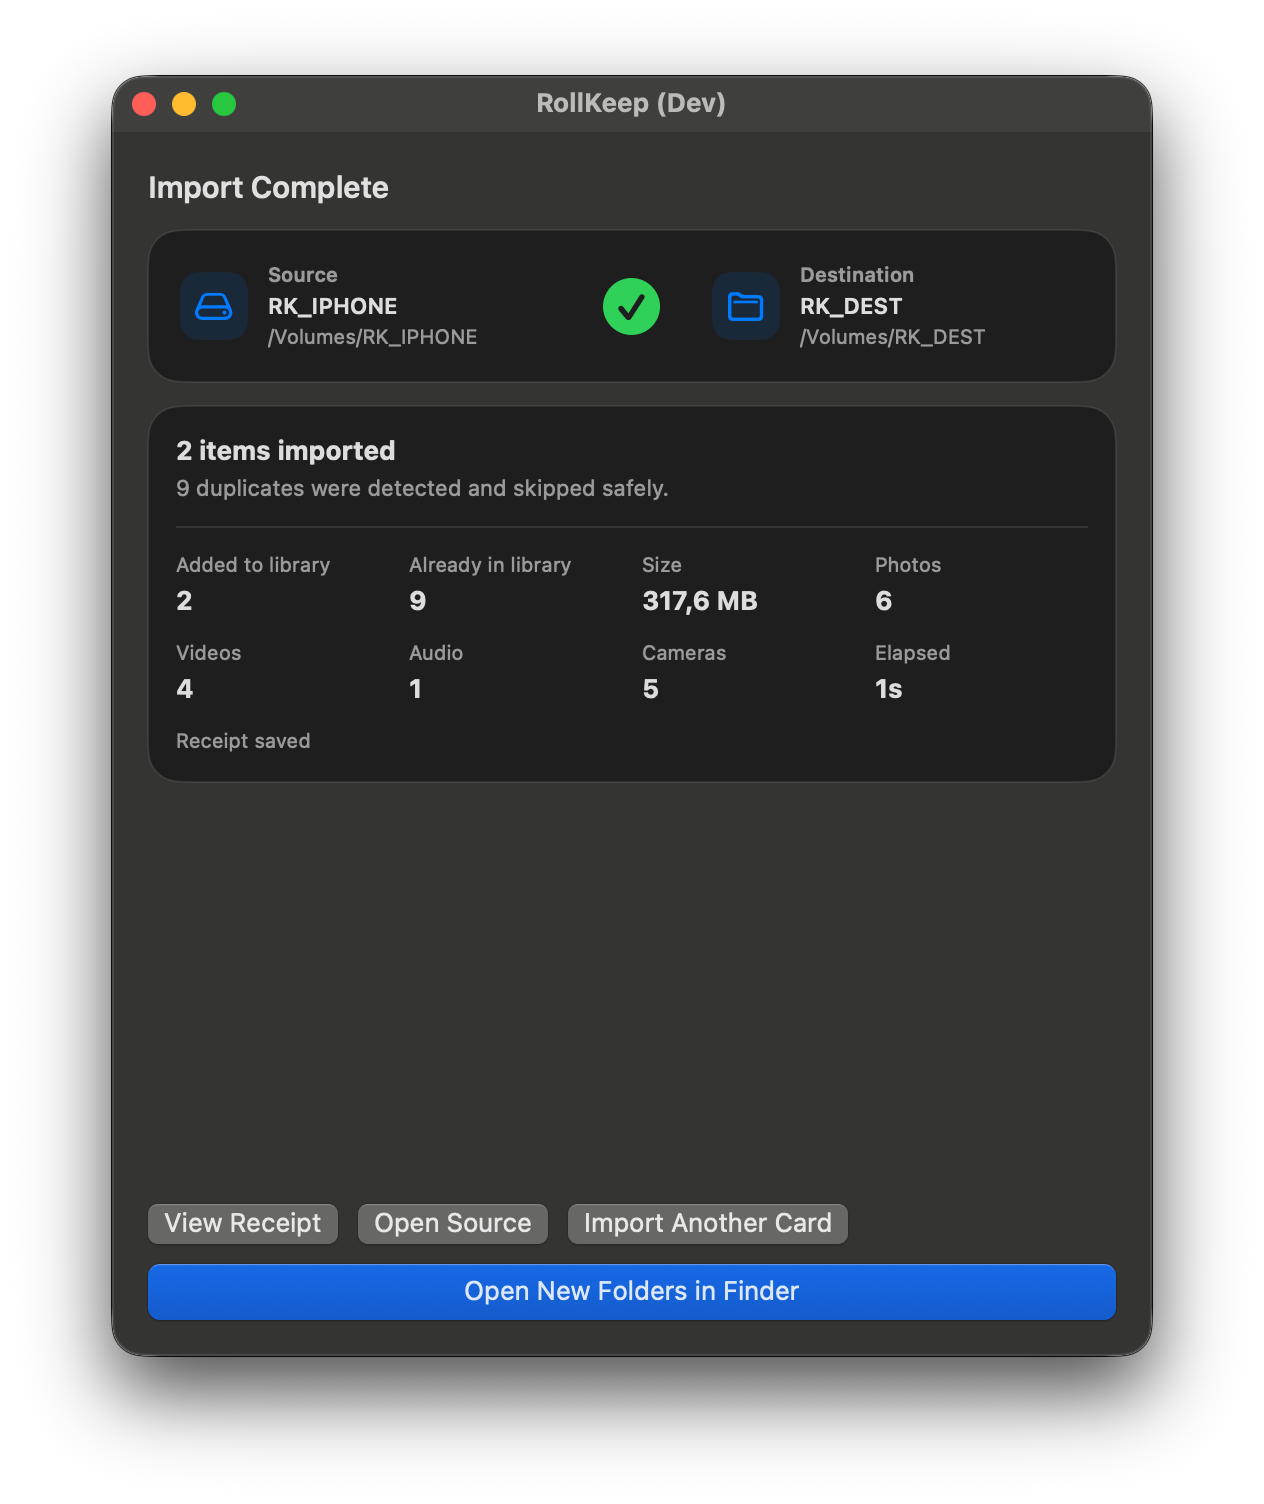
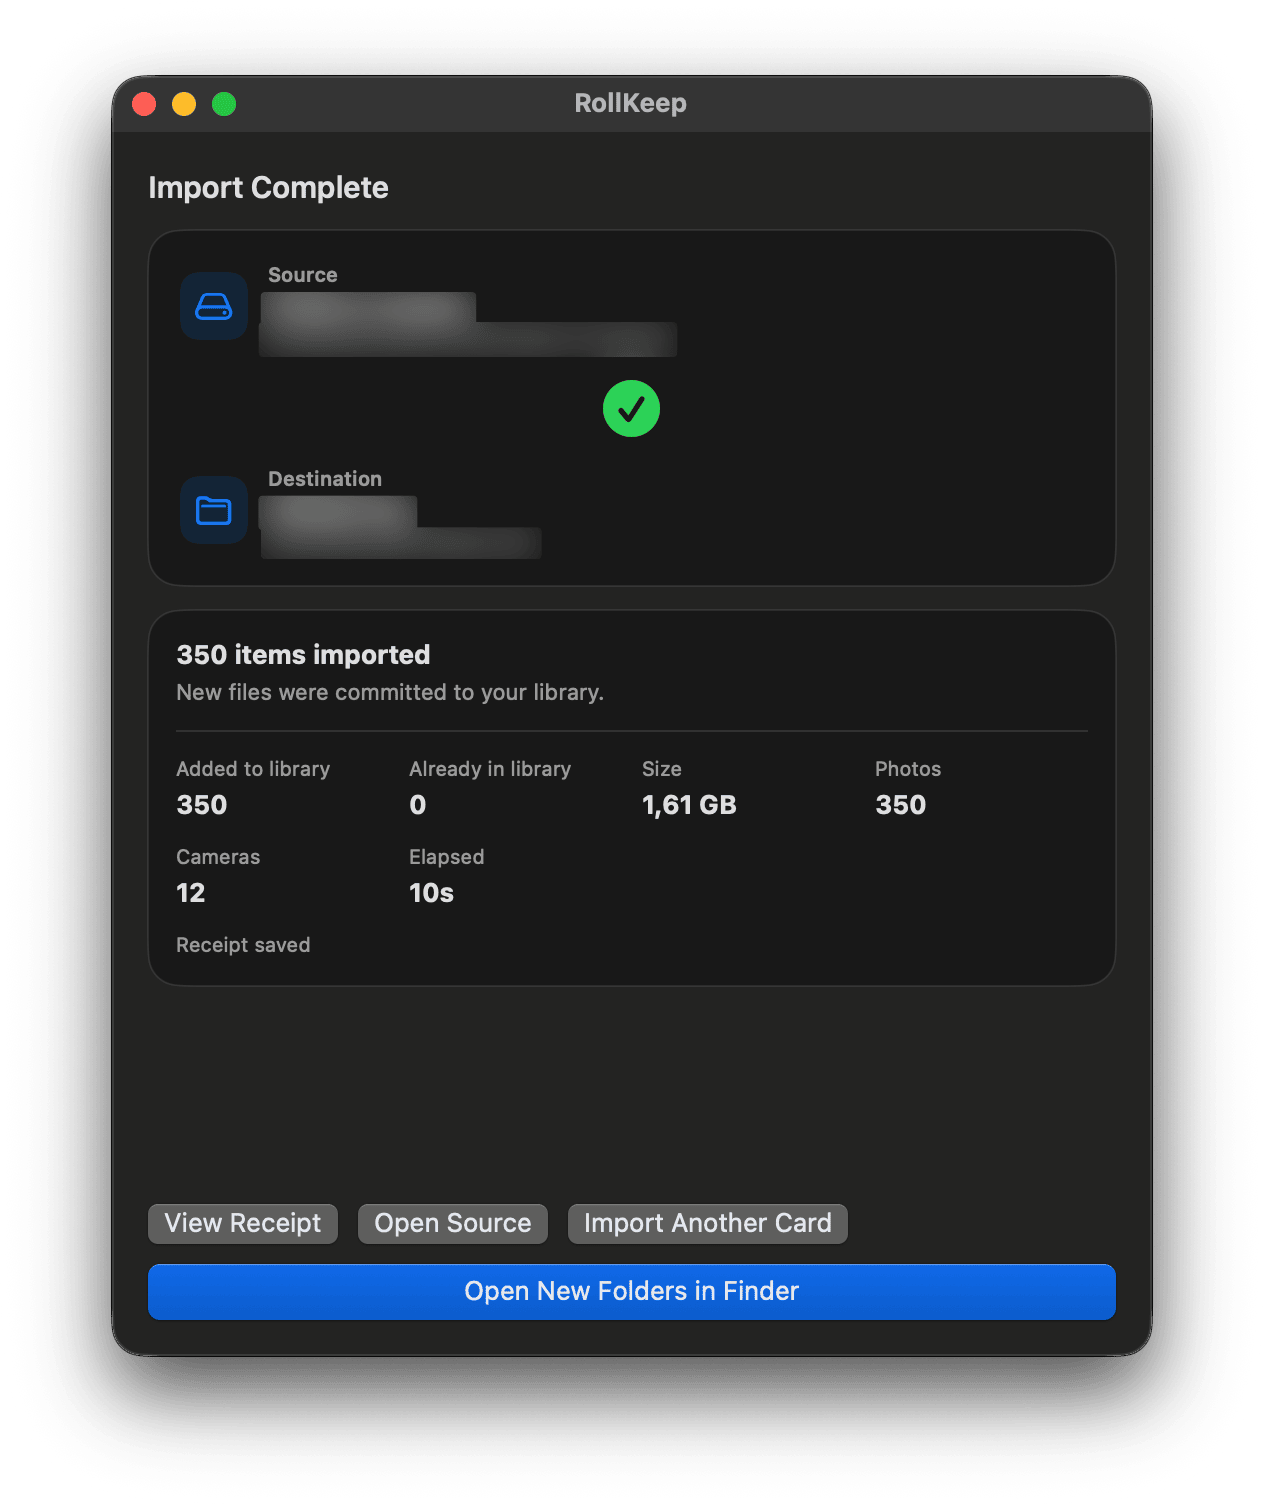
docs: refresh user guide screenshots and add README visuals

diff --git a/docs/user-guide/README.md b/docs/user-guide/README.md
@@ -96,6 +96,8 @@ Read the notices under the counts:
 
 ## 4. During an import
 
+<img src="images/import-progress.png" width="420" alt="The RollKeep window during an import. It shows the progress bar, 67 of 350 items copied, time remaining, the Stop Import button, and the Creating verified copy phase.">
+
 The bottom right corner shows the phase:
 
 | Phase | What RollKeep does |
@@ -116,7 +118,7 @@ Files that it already added to the library stay there. A stop during the first s
 
 ### Import Complete
 
-<img src="images/import-complete.png" width="420" alt="The Import Complete screen. It shows the source and destination with a green check mark, the headline 2 items imported, a grid of counts, and the buttons View Receipt, Open Source, Import Another Card and Open New Folders in Finder.">
+<img src="images/import-complete.png" width="420" alt="The Import Complete screen. It shows the source and destination with a green check mark, the headline 350 items imported, a grid of counts, and the buttons View Receipt, Open Source, Import Another Card and Open New Folders in Finder.">
 
 - **Added to library** counts every file that RollKeep added. It includes sidecar files, so it can be more than Photos + Videos + Audio.
 - **Already in library** counts files that were already there. RollKeep did not copy them again.
@@ -151,6 +153,8 @@ To try again, fix the cause. Click **Import Another Card**, then **Import**.
 RollKeep copies and verifies all files again. Files that are already in your library show as **Already in library**.
 
 ### The receipt
+
+<img src="images/receipt-summary.png" width="480" alt="Page 1 of the RollKeep Transfer Receipt PDF. It shows the VERIFIED badge, run metadata, At a Glance counts, and Capture Inventory.">
 
 Each import writes two files in `_ingest_receipts` in the destination:
 
@@ -263,6 +267,8 @@ This feature is experimental. It is off by default. Use it at your own risk.
 - When the switch is off, RollKeep ignores the labels. It does not delete them.
 
 ### Transfers
+
+<img src="images/settings-transfers.png" width="480" alt="The Transfers settings. It shows Destination medium as Unknown, a Parallel copies control set to 1, and a note to use 2 only on a fast SSD.">
 
 The **Transfers** tab controls how many files RollKeep copies at the same time.
 

diff --git a/README.md b/README.md
@@ -1,3 +1,7 @@
+<p align="left">
+  <img src="assets/macos/app-icon.png" width="80" alt="RollKeep app icon">
+</p>
+
 # RollKeep
 
 RollKeep is a macOS app that copies photos, videos and audio from a camera card to your drive.
@@ -8,6 +12,12 @@ The `rollkeep` command-line tool runs the same engine for scripts and terminal u
 - **To change the code:** read this file, then `docs/ROL-6-spec-and-invariants.md`.
 
 The app is the main product. The CLI is a complementary interface. It can offer fewer options than the app.
+
+<p>
+  <img src="docs/user-guide/images/main-window.png" height="350" alt="The RollKeep main window showing Source, Destination, Scan Preview, Camera Inventory, Film Mode, and the Import button.">
+  <img src="docs/user-guide/images/receipt-summary.png" height="350" alt="Page 1 of the RollKeep Transfer Receipt PDF showing the VERIFIED badge, run metadata, At a Glance counts, and Capture Inventory.">
+  <img src="docs/user-guide/images/finder-layout.png" height="350" alt="A Finder window showing the resulting library folder layout by year, month, camera, and media type.">
+</p>
 
 ## How it works
 
